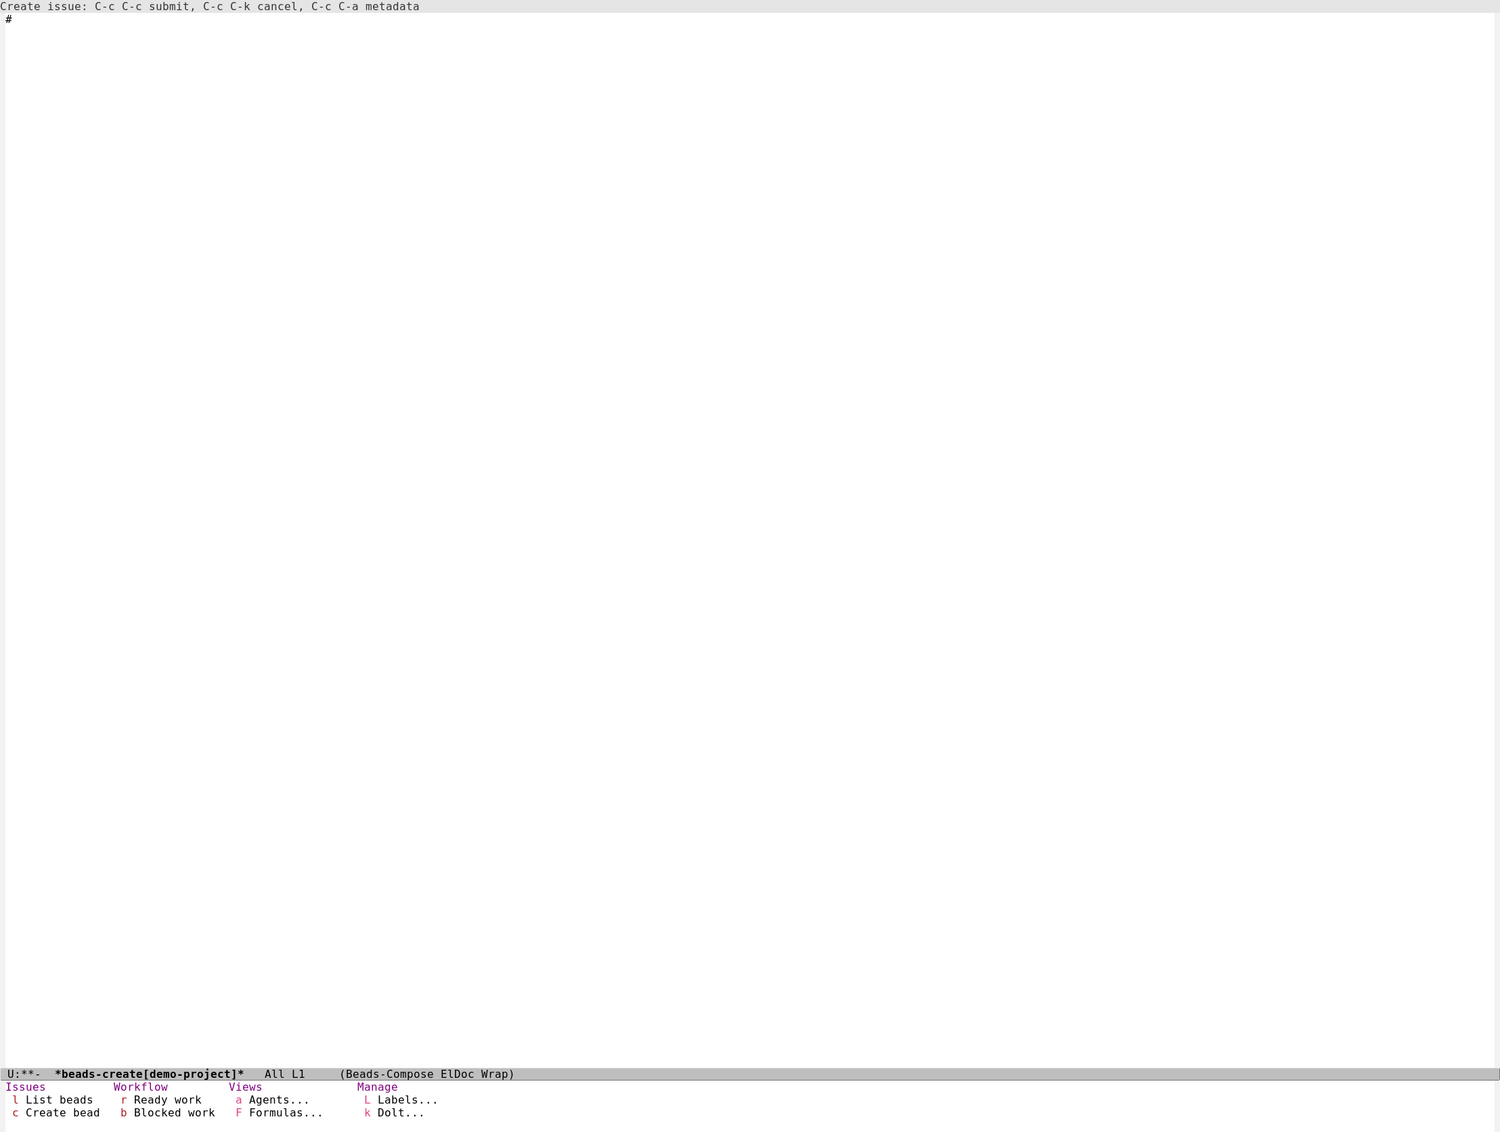
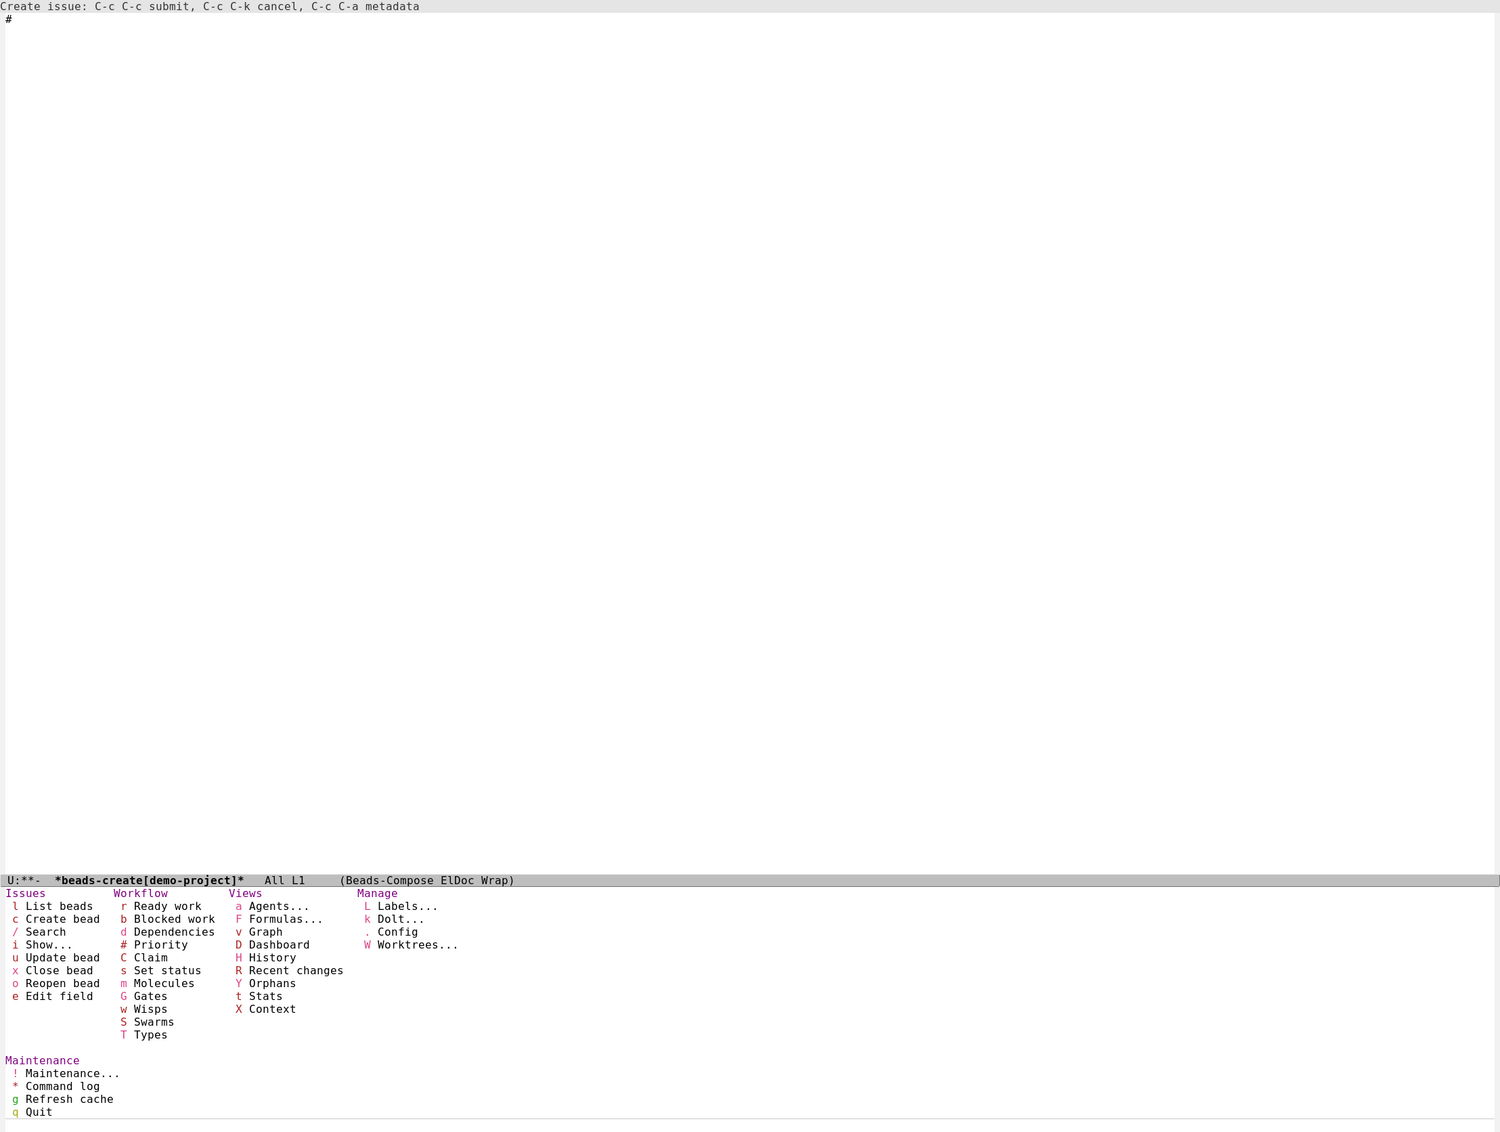
fix(screenshots): export the painted frame size for stable verify (be-vrjbu)
--verify all intermittently drifted: beads-shots--await-frame-size returns
as soon as frame-pixel-* reports the requested size, which can precede the
headless compositor painting it. The export then read the previous size, so
dispatch laid its transient out for the tiny compose frame (clipped menu)
and an empty list kept the 220x88 baseline instead of being fitted down.

Pump one bounded event-loop beat after the size check in the capture-only
x-export-frames advice (and before transient-setup), then regenerate.
dispatch now shows the complete menu, agents is the compact fitted list,
and repeated --verify dispatch/--verify all runs are byte-identical.

Update the implementation summary with the extra fix and re-validated
proof.

Changed region(s): [[0.0, 0.773, 1.0, 0.9894]]

diff --git a/plans/manual-demo-consistency/items/be-vrjbu-implementation-summary.md b/plans/manual-demo-consistency/items/be-vrjbu-implementation-summary.md
@@ -23,7 +23,7 @@ trace:
     - path: docs/manual/screenshots/capture.sh
       hash: sha256:0d67bc9d45c9f6d3123cb7bf8d4df62e69096d0aa5d2a5fcdc4b4ba68b91d8c0
     - path: docs/manual/screenshots/beads-shots.el
-      hash: sha256:56a5cd55bd05c14f837ff04e025631d2a3176cd29aee0e4722a2fadee667e38c
+      hash: sha256:c00c50fa93feeae63f711ecad09758845fffd3c678e87944106ca465c975ab32
     - path: docs/manual/screenshots/README.md
       hash: sha256:b38c0aa9c7c205eb9e80fae7fdb5698652b2e534d4e53032e0efc09a74300615
     - path: lisp/test/beads-manual-test.el
@@ -57,6 +57,18 @@ The full manifest then captured cleanly: 18 full images and 18 thumbnails
 `FAILED` shot and no normalization rewrite. `--verify all` captured every scope
 twice and found all 18 raw PNGs byte-identical; `--verify-scope show` left all
 32 non-selected images byte- and mtime-identical.
+
+A later re-run of `--verify all` exposed a second, pre-existing timing defect:
+`beads-shots--await-frame-size` can return as soon as `frame-pixel-*` reports
+the requested size, before the headless compositor has painted it. The export
+then read the previous frame size, so `dispatch` laid its transient out for the
+tiny preceding compose frame (a clipped menu) and an empty list could keep the
+220x88 baseline instead of being fitted down. The capture-only
+`x-export-frames` advice now pumps the event loop for one bounded beat after
+the size check (and the transient thunk does the same before
+`transient-setup`), so every shot exports the frame it actually laid out.
+`dispatch` is now the complete menu in every run, `agents` is the compact
+fitted list in every run, and repeated `--verify` invocations are stable.
 
 The capture-time advice (frame-settle wait, id normalization, fixed dashboard
 relative time) is now installed by `beads-shots-install-capture-hooks` from
@@ -115,7 +127,7 @@ test, and the committed images.
 
 | File | sha256 | Change |
 | --- | --- | --- |
[4 lines of base64/hex data omitted]
 | `docs/manual/images/*.png` (36 files) | regenerated; per-file hashes in the commit | every full image and thumbnail, including the four `-light` slots, re-captured from the shared fixture under default faces. `dashboard`/`list`/`show`/`epic` dark and light files are byte-identical within each pair. |
@@ -152,7 +164,7 @@ Bead proof commands (all from the worktree):
 | Proof | Command | Observed |
 | --- | --- | --- |
 | full capture regenerates every image | `docs/manual/screenshots/capture.sh --scope all` against `/tmp/demo-project` | **PASS** — exit 0; 18 raw PNGs, no `FAILED` line in `capture.log`, 18 full + 18 thumbnails written (773.7 KiB total) |
-| reproducibility (AC-4) | `docs/manual/screenshots/capture.sh --verify all` | **PASS** — exit 0, `verify: byte-identical for 18 image(s) (scope all)` |
+| reproducibility (AC-4) | `docs/manual/screenshots/capture.sh --verify all` | **PASS** — exit 0, `verify: byte-identical for 18 image(s) (scope all)`; re-run after the frame-paint fix and a second `--verify dispatch`/`--verify agents`, all byte-identical |
 | subset isolation (AC-4) | `docs/manual/screenshots/capture.sh --verify-scope show` | **PASS** — exit 0, `32 non-selected image(s) unchanged (digest + mtime) for scope show` |
 | canonical set restored after the subset proof | `docs/manual/screenshots/capture.sh --scope all` | **PASS** — exit 0; re-ran so the committed set is the full-run output (the isolated `show` run legitimately omits the dashboard breadcrumb row) |
 | image inventory and references | script over `docs/*.texi` + `docs/manual/images/*.png` | 36 committed files = 18 full + 18 thumbnails; 18 unique `@shot` names; **0 unreferenced images**; dark/light pairs `dashboard`/`list`/`show`/`epic` sha256-identical |
@@ -190,12 +202,12 @@ all)`. The README edit and the summary are non-executable documentation edits;
   `--verify-scope` only asserts the non-selected images, so both proofs pass,
   but the committed `show` images are the full-run output by design. Re-run
   `--scope all` after any `--verify-scope show` before committing.
-- **Whole-frame transient shots still show the previous buffer and an unfitted
-  frame.** `dispatch`, `maintenance`, `agent-menu`, and `formula` export the
-  baseline 220x88 frame, so the compose buffer from the preceding shot shows
-  behind the popup and the right half is empty. That is the pre-existing
-  rendering (the old `ef-themes` images have the same shape); tightening it
-  would need per-menu frame fitting and is out of scope for this item.
+- **Whole-frame transient shots still show the previous buffer.** `dispatch`,
+  `maintenance`, `agent-menu`, and `formula` export the whole baseline frame,
+  so the compose buffer from the preceding shot shows behind the popup (the
+  old `ef-themes` images have the same shape). The menu layout itself is now
+  deterministic and complete; tightening the frame would need per-menu frame
+  fitting and is out of scope for this item.
 - **`-dark` and `-light` images are byte-identical by design.** REQ-004
   prefers link stability, so each duplicated image costs a little repository
   size. Changing that requires changing the naming contract in both manuals
